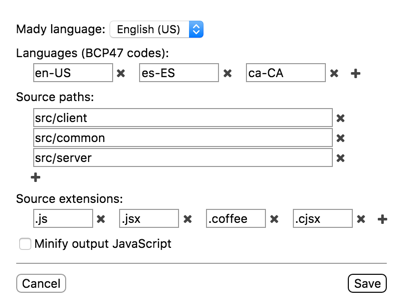
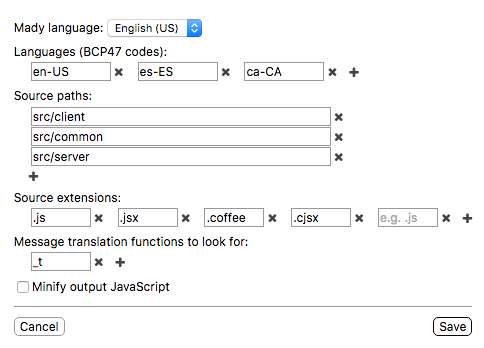
Allow configuration of message translation functions. Support multiline messages

diff --git a/src/server/parseSources.js b/src/server/parseSources.js
@@ -1,14 +1,31 @@
 import fs                   from 'fs';
 import path                 from 'path';
+import slash                from 'slash';
 import { chalk }            from 'storyboard';
 import diveSync             from 'diveSync';
 
-const REGEXP_TRANSLATE_CMDS = [
-  /_t\s*\(\s*"(.*?)"/g,
-  /_t\s*\(\s*'(.*?)'/g,
-];
+// const REGEXP_TRANSLATE_CMDS = [
+//   /_t\s*\(\s*"(.*?)"/g,
+//   /_t\s*\(\s*'(.*?)'/g,
+// ];
 
-export default function parse({ srcPaths, srcExtensions, story }) {
+const getRegexps = msgFunctionNames => {
+  const out = [];
+  msgFunctionNames.forEach(fnName => {
+    const escapedFnName = fnName.replace(/([\$])/g, '\\$1');
+
+    // Looking for something like:
+    // * i18n("xk s fjkl")
+    // * i18n ( "xk s fjkl")
+    // * i18n('xk s fjkl')
+    out.push(new RegExp(`${escapedFnName}\\s*\\(\\s*"([\\s\\S]*?)"`, 'gm'));
+    out.push(new RegExp(`${escapedFnName}\\s*\\(\\s*'([\\s\\S]*?)'`, 'gm'));
+  });
+  return out;
+};
+
+export default function parse({ srcPaths, srcExtensions, msgFunctionNames, story }) {
+  const regexpFunctionNames = getRegexps(msgFunctionNames);
   const keys = {};
   const diveOptions = { filter: (filePath, fDir) => {
     if (fDir) return true;
@@ -18,7 +35,7 @@ export default function parse({ srcPaths, srcExtensions, story }) {
     const finalFilePath = path.normalize(filePath);
     story.info('parser', `Processing ${chalk.cyan.bold(finalFilePath)}...`);
     const fileContents = fs.readFileSync(finalFilePath);
-    for (const re of REGEXP_TRANSLATE_CMDS) {
+    regexpFunctionNames.forEach(re => {
       let match;
       while ((match = re.exec(fileContents))) {
         const key = match[1];
@@ -39,12 +56,10 @@ export default function parse({ srcPaths, srcExtensions, story }) {
           unusedSince: null,
           sources: [],
         };
-        keys[key].sources.push(finalFilePath);
+        keys[key].sources.push(slash(finalFilePath));
       }
-    }
+    });
   };
-  for (const srcPath of srcPaths) {
-    diveSync(srcPath, diveOptions, diveProcess);
-  }
+  srcPaths.forEach(srcPath => diveSync(srcPath, diveOptions, diveProcess))
   return keys;
 }

diff --git a/src/client/components/061-translatorRow.js b/src/client/components/061-translatorRow.js
@@ -78,6 +78,7 @@ class TranslatorRow extends React.Component {
     const elContext = key.context
       ? <span style={style.context}>{key.context}</span>
       : undefined;
+    const elText = <span style={style.text}>{key.text}</span>;
     const elDeleteKey = hovering
       ? (
         <Icon
@@ -103,7 +104,7 @@ class TranslatorRow extends React.Component {
           onMouseLeave={onHoverStop}
           style={cellStyle}
         >
-          {elContext}{key.text}{elDeleteKey}
+          {elContext}{elText}{elDeleteKey}
         </div>
         {this.props.langs.map(this.renderTranslation)}
       </div>
@@ -176,6 +177,9 @@ const style = {
   context: {
     fontWeight: 900,
     marginRight: 10,
+  },
+  text: {
+    whiteSpace: 'pre-wrap',
   },
   removeIcon: {
     position: 'absolute',

diff --git a/src/locales/ca-CA.js b/src/locales/ca-CA.js
@@ -65,7 +65,8 @@ return {
   "validation_MessageFormat syntax error": function(d) { return "Error de sintaxi MessageFormat"; },
   "error_Changes could not be saved": function(d) { return "No s'han pogut guardar els canvis"; },
   "error_Configuration could not be saved": function(d) { return "No s'ha pogut guardar la configuració"; },
-  "error_Is the server running?": function(d) { return "El servidor està funcionant?"; }
+  "error_Is the server running?": function(d) { return "El servidor està funcionant?"; },
+  "settingsForm_Message translation functions to look for:": function(d) { return "Funcions de traducció de missatges a buscar:"; }
 }
 };
 module.exports = anonymous();

diff --git a/src/locales/es-ES.js b/src/locales/es-ES.js
@@ -61,7 +61,8 @@ return {
   msgDetailsView_Details: function(d) { return "Detalles"; },
   "error_Changes could not be saved": function(d) { return "No se pudieron guardar los cambios"; },
   "error_Configuration could not be saved": function(d) { return "No se pudo guardar la configuración"; },
-  "error_Is the server running?": function(d) { return "¿El servidor está funcionando?"; }
+  "error_Is the server running?": function(d) { return "¿El servidor está funcionando?"; },
+  "settingsForm_Message translation functions to look for:": function(d) { return "Funciones de traducción de mensajes a buscar:"; }
 }
 };
 module.exports = anonymous();

diff --git a/src/client/components/010-app.js b/src/client/components/010-app.js
@@ -20,15 +20,6 @@ require('./010-app.sass');
 // Example MessageFormat message with plural, so that it appears in the screenshot:
 // _t("someContext_{NUM, plural, one{1 hamburger} other{# hamburgers}}", { NUM: 1 }))
 
-// Example message with alternative function name:
-// i18n("someContext_Test message with alternative function name")
-
-// Example multiline:
-/*
-_t("someContext_This is a
-multi-line message")
-*/
-
 // ==========================================
 // Relay fragments
 // ==========================================

diff --git a/CHANGELOG.md b/CHANGELOG.md
@@ -1,5 +1,7 @@
 # Changelog
 
+* [M] **Allow configuration of the message translation functions** (markers for message extraction).
+* [M] **Support extraction of multi-line messages** (especially useful for complex MessageFormat strings with nested plurals and selections).
 * Update docs.
 * Deps: bump `graphql@0.6.0`, `react-relay@0.9.0` (+ related).
 * Store sources always with slashes (not with backward-slashes in Windows).
